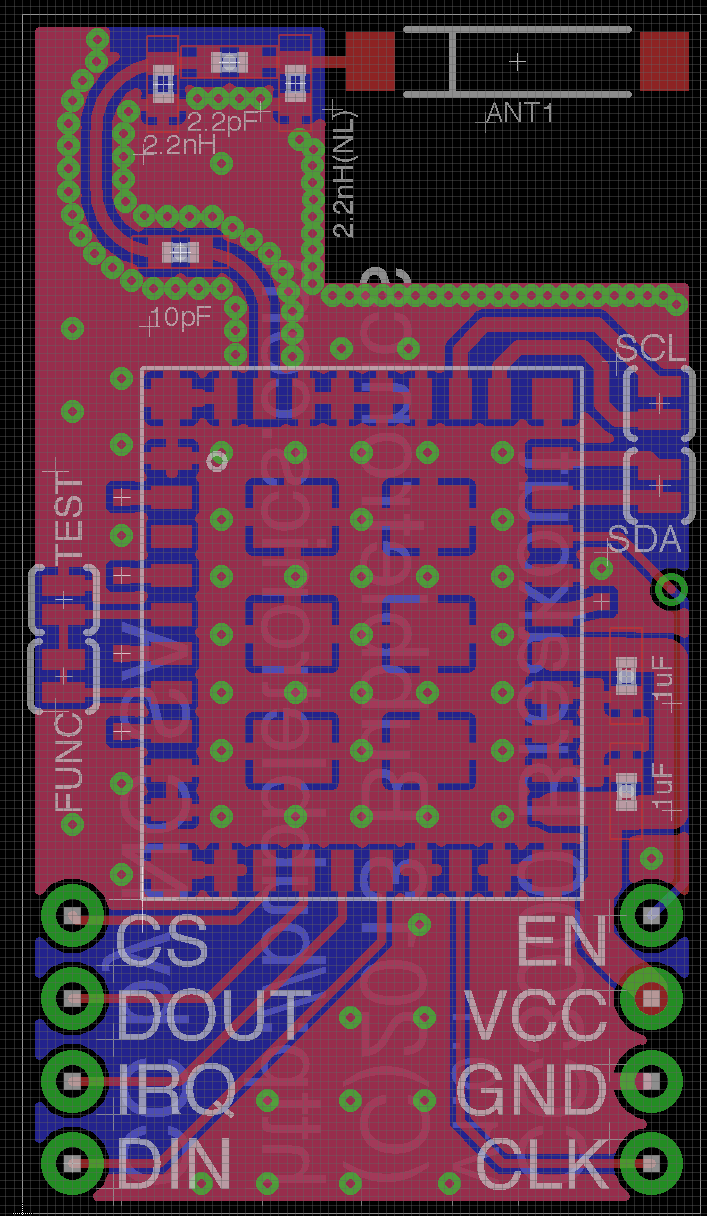
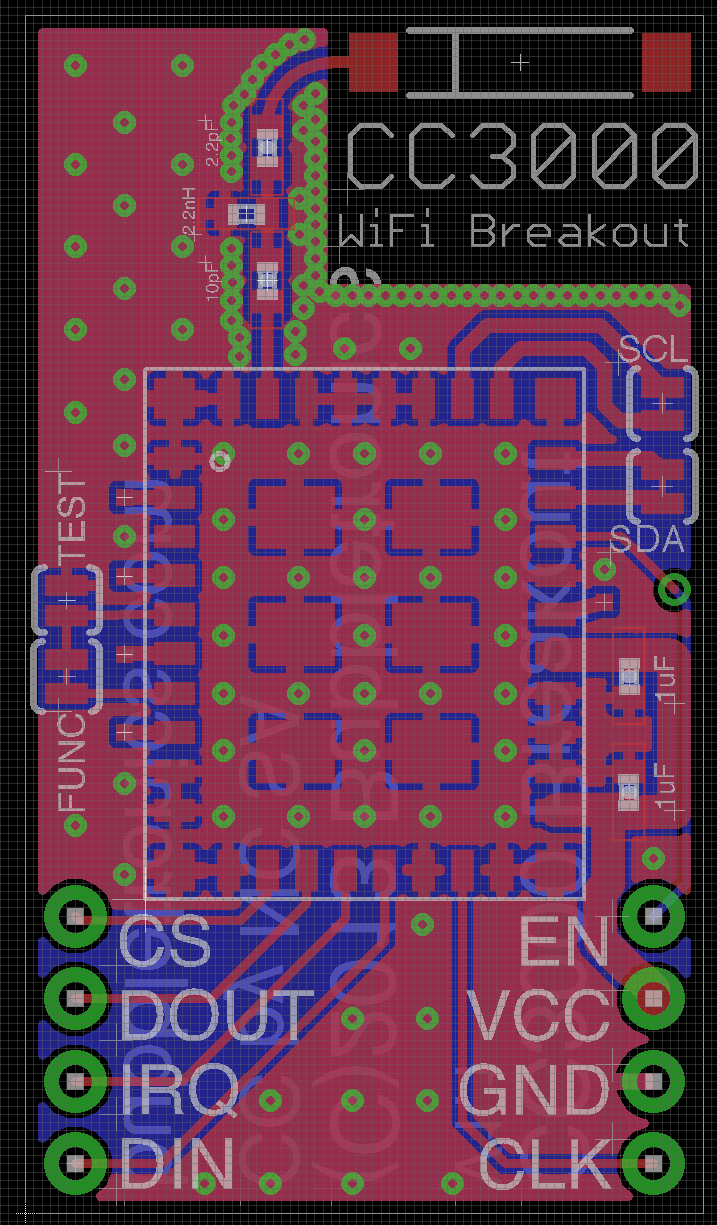
Version 1.1
Removed 2nd (NL) inductor, straightened out antenna trace

diff --git a/README.md b/README.md
@@ -1,7 +1,7 @@
 CC3000 Breakout
 =============
 
-<p>Version 1.0.1</p>
+<p>Version 1.1</p>
 
 <p>Yet another breakout board for the TI CC3000 WiFi module</p>
 
